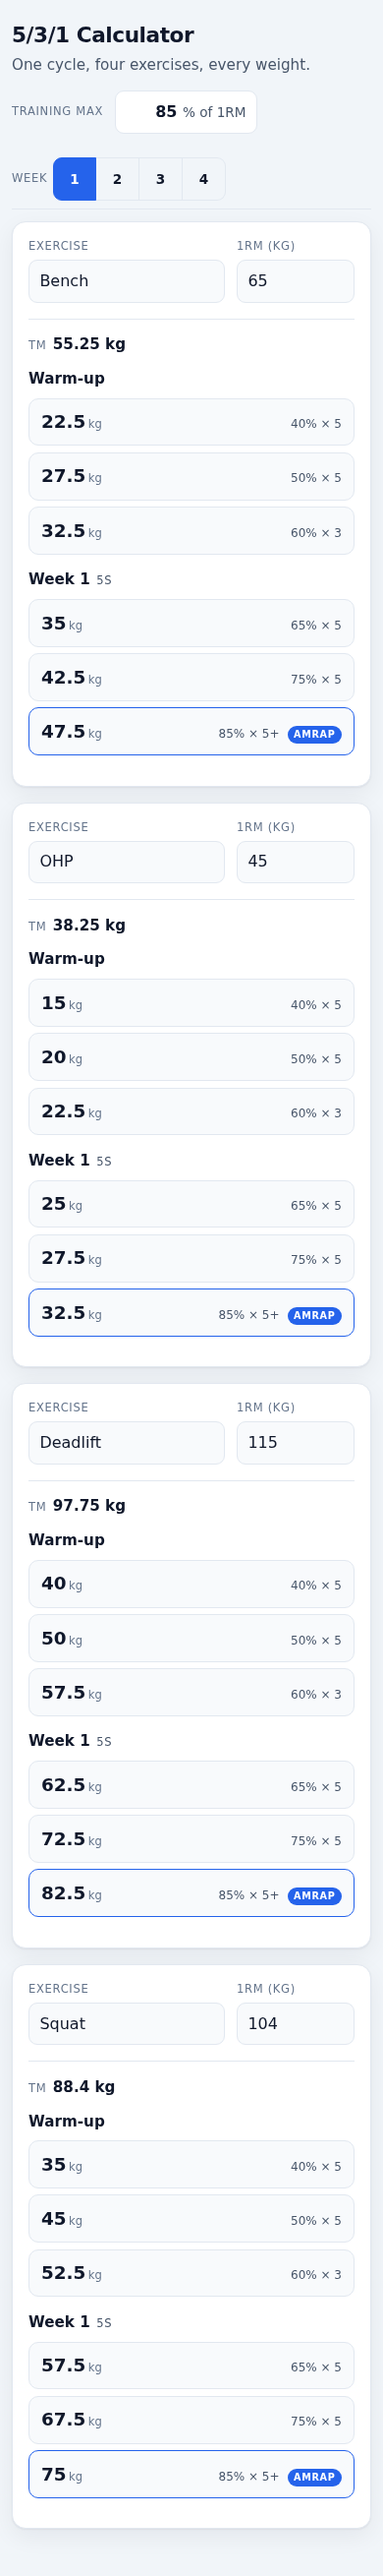
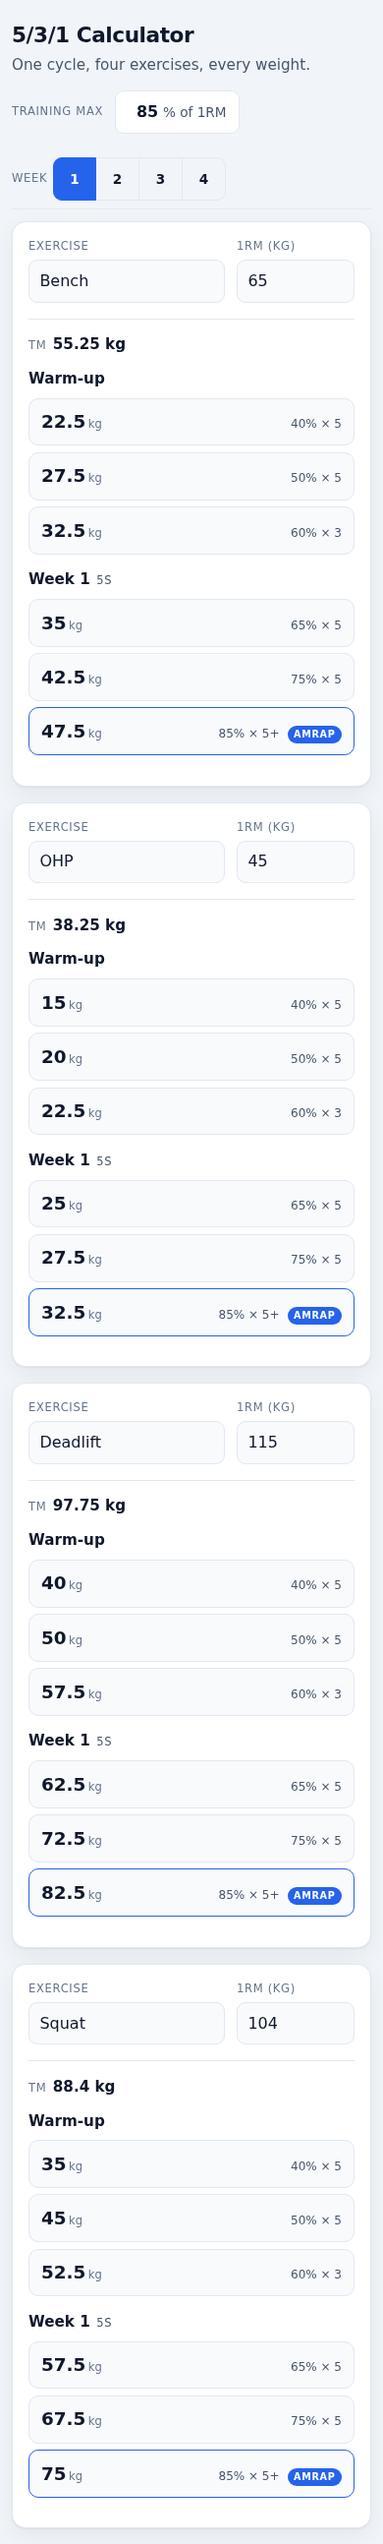
Improve responsive layout and compact Training Max control
- Keep desktop cards within the viewport with scrolling
- Improve full-width responsive alignment across breakpoints

diff --git a/src/style.css b/src/style.css
@@ -40,7 +40,11 @@
 
 body {
   margin: 0;
-  padding: 1.25rem clamp(0.75rem, 3vw, 2rem) 3rem;
+  min-height: 100vh;
+  min-height: 100dvh;
+  display: flex;
+  flex-direction: column;
+  padding: 1.25rem clamp(0.75rem, 3vw, 2rem) 1rem;
   background: var(--bg);
   color: var(--text);
   caret-color: var(--accent);
@@ -48,9 +52,17 @@ body {
   -webkit-text-size-adjust: 100%;
 }
 
+@media (min-width: 640px) {
+  body {
+    overflow: hidden;
+  }
+}
+
 .app-header {
+  width: 100%;
   max-width: 1400px;
   margin: 0 auto 0.9rem;
+  flex: 0 0 auto;
 }
 
 .app-header h1 {
@@ -66,12 +78,14 @@ body {
 }
 
 .settings {
+  width: 100%;
   max-width: 1400px;
   margin: 0 auto 1rem;
   display: flex;
   align-items: center;
   flex-wrap: wrap;
   gap: 0.4rem;
+  flex: 0 0 auto;
 }
 
 .settings-week {
@@ -114,9 +128,9 @@ body {
 .tm-input {
   display: inline-flex;
   align-items: center;
-  gap: 0.35rem;
+  gap: 0.3rem;
   min-height: 44px;
-  padding: 0 0.65rem;
+  padding: 0 0.75rem 0 0.6rem;
   border: 1px solid var(--border);
   background: var(--surface);
   border-radius: 9px;
@@ -129,7 +143,7 @@ body {
 }
 
 .tm-percent {
-  width: 3.25rem;
+  width: 2.1rem;
   padding: 0.4rem 0;
   border: 0;
   background: transparent;
@@ -223,17 +237,22 @@ body {
 }
 
 .cards {
+  width: 100%;
   max-width: 1400px;
   margin: 0 auto;
   display: grid;
   gap: 1rem;
   grid-template-columns: 1fr;
   align-items: start;
+  flex: 1 1 auto;
+  min-height: 0;
 }
 
 @media (min-width: 640px) {
   .cards {
     grid-template-columns: repeat(2, minmax(0, 1fr));
+    overflow-y: auto;
+    align-content: start;
   }
 }
 
